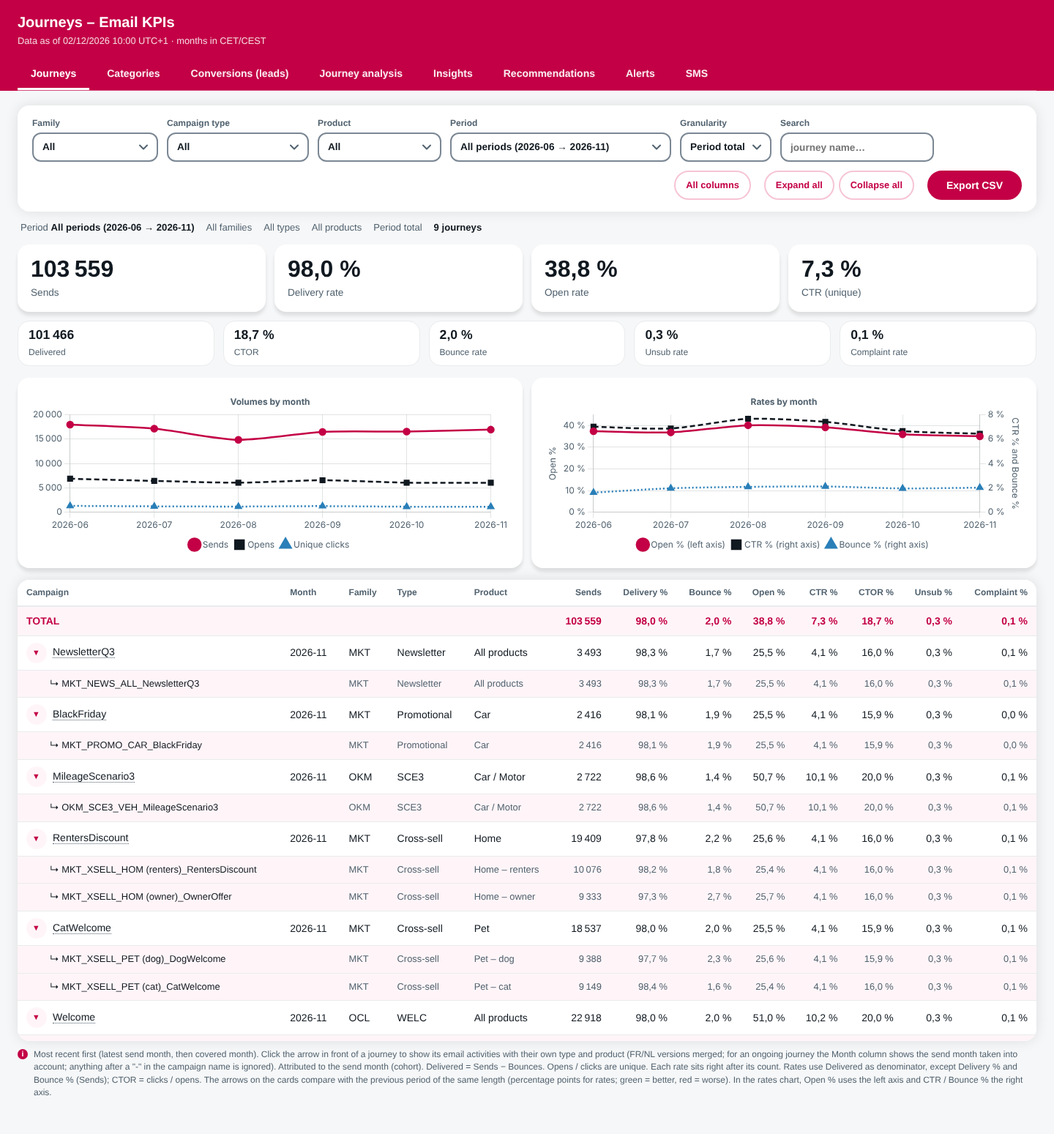
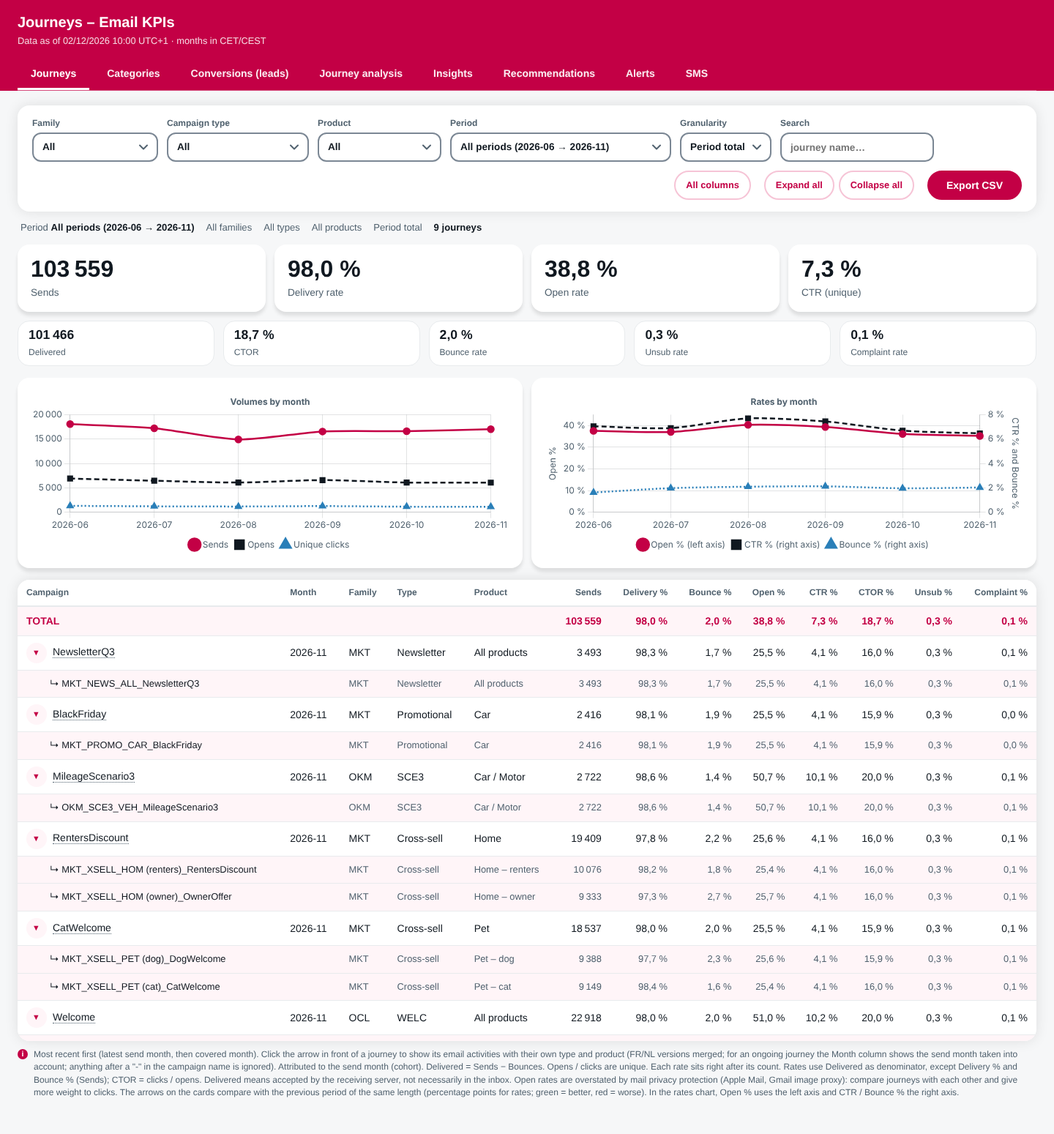
Deliverability aligned with provider guidance: two-level complaint thresholds, hard bounce split, compliance box, cautious open-rate rules
Claude-Session: https://claude.ai/code/session_01WtzjzeTDomDiWbenzCQNQG

diff --git a/html/cloudpage_dashboard.html b/html/cloudpage_dashboard.html
@@ -394,6 +394,9 @@ a.jl:focus-visible{outline:2px solid var(--focus);outline-offset:2px;border-radi
   <section id="v-ins" hidden>
     <div id="ins-deliv">
       <div class="tops" id="tops"></div>
+      <div class="h2" id="compTitle">Deliverability: your figures against the providers' references</div>
+      <div class="wrap"><table id="tComp"></table></div>
+      <details class="recomore" open><summary>What Google, Yahoo and Microsoft require</summary><div class="note" id="compText"></div></details>
       <div class="note" id="iNote"></div>
     </div>
     <div id="ins-aud" hidden>
@@ -567,9 +570,9 @@ function group(rows, keyFn){
   for (const r of rows){
     const [name,month,act] = keyFn(r), key = name+'|'+(act||'')+'|'+month;
     let a = m.get(key);
-    if(!a){ a={name,month,act:act||'',last:'',Sends:0,Bounces:0,Opens:0,Clicks:0,Unsubs:0,Compl:0}; m.set(key,a); }
+    if(!a){ a={name,month,act:act||'',last:'',Sends:0,Bounces:0,Hard:0,Opens:0,Clicks:0,Unsubs:0,Compl:0}; m.set(key,a); }
     if (r.Month > a.last) a.last = r.Month;
-    a.Sends+=r.Sends; a.Bounces+=r.Bounces; a.Opens+=r.Opens; a.Clicks+=r.UniqueClicks; a.Unsubs+=r.Unsubscribes; a.Compl+=r.Complaints;
+    a.Sends+=r.Sends; a.Bounces+=r.Bounces; a.Hard+=(r.HardBounces||0); a.Opens+=r.Opens; a.Clicks+=r.UniqueClicks; a.Unsubs+=r.Unsubscribes; a.Compl+=r.Complaints;
   }
   return [...m.values()];
 }
@@ -764,7 +767,7 @@ function viewKpi(dim){
   renderTable('tbl', keyCols, kpiCols(), grouped, tot, opts);
   drawCharts(byMonthCharts(rows));
   $('note').textContent = (S.tab==='journeys' ? "Most recent first (latest send month, then covered month). Click the arrow in front of a journey to show its email activities with their own type and product (FR/NL versions merged; for an ongoing journey the Month column shows the send month taken into account; anything after a \"-\" in the campaign name is ignored). " : "") +
-    "Attributed to the send month (cohort). Delivered = Sends − Bounces. Opens / clicks are unique. Each rate sits right after its count. Rates use Delivered as denominator, except Delivery % and Bounce % (Sends); CTOR = clicks / opens. The arrows on the cards compare with the previous period of the same length (percentage points for rates; green = better, red = worse). In the rates chart, Open % uses the left axis and CTR / Bounce % the right axis." +
+    "Attributed to the send month (cohort). Delivered = Sends − Bounces. Opens / clicks are unique. Each rate sits right after its count. Rates use Delivered as denominator, except Delivery % and Bounce % (Sends); CTOR = clicks / opens. Delivered means accepted by the receiving server, not necessarily in the inbox. Open rates are overstated by mail privacy protection (Apple Mail, Gmail image proxy): compare journeys with each other and give more weight to clicks. The arrows on the cards compare with the previous period of the same length (percentage points for rates; green = better, red = worse). In the rates chart, Open % uses the left axis and CTR / Bounce % the right axis." +
     (S.tab==='journeys' && !D.email.length ? " Email-level data not available yet (DASH_Email_KPI_Monthly)." : "");
 }
 
@@ -858,33 +861,43 @@ function recoRules(){
   const elig = J.filter(a=>deliv(a)>=minS), keyOf = a => { const p = parse(a.name); return p.fam+'_'+p.type; };
   const bench = (a, fn) => { let peers = elig.filter(x=>x.name!==a.name && keyOf(x)===keyOf(a)); if (peers.length<3) peers = elig.filter(x=>x.name!==a.name && parse(x.name).fam===parse(a.name).fam); return peers.length<3 ? null : {v:medianOf(peers.map(fn)), n:peers.length, key:keyOf(a)}; };
   const goJ = a => ({tab:'ana', j:a.name}), nm = a => parse(a.name).campaign;
-  /* ---- Deliverability ---- */
+  /* ---- Deliverability (references: Google and Yahoo ask for a complaint rate under 0,1 % and never 0,3 %; no provider publishes a bounce threshold, the usual benchmark is under 2 % in total and well under 1 % for hard bounces) ---- */
+  const hasHard = rows.some(r=>r.HardBounces!==undefined), hr = a => a.Sends ? a.Hard/a.Sends : 0, cpr = a => deliv(a) ? a.Compl/deliv(a) : 0;
+  const REF_COMPL = 'Google asks for a spam rate under 0,1 % and never 0,3 %; Yahoo 0,3 %.';
   run('Journey bounce rate','Deliverability',()=>{
     if (!elig.length) return 'no journey with at least '+n(minS)+' delivered emails in the period';
-    for (const a of elig){ const b = bench(a,br), r = br(a);
-      if (r>=0.05) F('high','Deliverability',nm(a)+': '+pct(a.Bounces,a.Sends)+' of emails bounce',n(a.Bounces)+' of '+n(a.Sends)+' sends bounced.','Clean the list before the next send: remove hard bounces and old addresses, and check where these addresses come from.',goJ(a),a.Sends);
-      else if (b && r>=Math.max(2*b.v, b.v+0.01) && r>=0.02) F('medium','Deliverability',nm(a)+': bounce rate '+pct(a.Bounces,a.Sends),n(a.Bounces)+' bounces on '+n(a.Sends)+' sends, against a median of '+fx1(b.v*100)+' % for '+b.n+' similar journeys ('+b.key+').','Check the quality of the addresses this journey sends to (source, age, hard bounces).',goJ(a),a.Sends); }
+    for (const a of elig){ const b = bench(a,br), r = br(a), h = hr(a), hardTxt = hasHard ? ' ('+fx1(h*100)+' % hard bounces)' : '';
+      if (hasHard && h>=0.01) F(h>=0.02?'high':'medium','Deliverability',nm(a)+': '+fx1(h*100)+' % hard bounces',n(a.Hard)+' hard bounces on '+n(a.Sends)+' sends. Hard bounces are the ones that hurt the sender reputation: the usual target is well under 1 %.','Remove the addresses that hard bounced and check where these addresses come from (old contacts, typos, purchased lists).',goJ(a),a.Sends);
+      else if (!hasHard && r>=0.05) F('high','Deliverability',nm(a)+': '+pct(a.Bounces,a.Sends)+' of emails bounce',n(a.Bounces)+' of '+n(a.Sends)+' sends bounced (hard and soft bounces are not separated yet: see the README).','Clean the list before the next send: remove hard bounces and old addresses, and check where these addresses come from.',goJ(a),a.Sends);
+      else if (b && r>=Math.max(2*b.v, b.v+0.01) && r>=0.02) F('medium','Deliverability',nm(a)+': bounce rate '+pct(a.Bounces,a.Sends),n(a.Bounces)+' bounces on '+n(a.Sends)+' sends'+hardTxt+', against a median of '+fx1(b.v*100)+' % for '+b.n+' similar journeys ('+b.key+').','Check the quality of the addresses this journey sends to and look for blocks (reputation) among the soft bounces.',goJ(a),a.Sends); }
+  });
+  run('Complaint rate by journey','Deliverability',()=>{
+    if (!elig.length) return 'no journey with at least '+n(minS)+' delivered emails in the period';
+    for (const a of elig){ const c = cpr(a); if (c>=0.001) F(c>=0.003?'high':'medium','Deliverability',nm(a)+': complaint rate '+fx1(c*100)+' %',n(a.Compl)+' complaints on '+n(deliv(a))+' delivered emails. '+REF_COMPL,'Review who receives this journey (consent, relevance, frequency) and make the unsubscribe link easy to find.',goJ(a),deliv(a)); }
   });
   run('Domains','Deliverability',()=>{
-    const dm = new Map(); for (const r of D.domain){ if (!inMonths(r.Month)) continue; let a = dm.get(r.Domain); if(!a){ a={name:r.Domain,Sends:0,Bounces:0,Compl:0}; dm.set(r.Domain,a); } a.Sends+=r.Sends; a.Bounces+=r.Bounces; a.Compl+=r.Complaints; }
+    const dm = new Map(); for (const r of D.domain){ if (!inMonths(r.Month)) continue; let a = dm.get(r.Domain); if(!a){ a={name:r.Domain,Sends:0,Bounces:0,Hard:0,Compl:0}; dm.set(r.Domain,a); } a.Sends+=r.Sends; a.Bounces+=r.Bounces; a.Hard+=(r.HardBounces||0); a.Compl+=r.Complaints; }
     const ds = [...dm.values()], tS = ds.reduce((s,a)=>s+a.Sends,0), tB = ds.reduce((s,a)=>s+a.Bounces,0); if (!ds.length || !tS) return 'no domain data (DASH_Domain_Monthly)';
-    const avg = tB/tS;
-    for (const a of ds){ if (a.Sends<minS) continue; const r = a.Bounces/a.Sends, c = a.Compl/a.Sends;
-      if (c>=0.001) F('high','Deliverability',a.name+': complaint rate '+fx1(c*100)+' %',n(a.Compl)+' complaints on '+n(a.Sends)+' sends (a rate above 0,1 % puts the sender reputation at risk).','Review who receives these emails (consent, frequency) and add a visible unsubscribe link.',{tab:'ins',sub:'deliv'},a.Sends);
-      if (r>=Math.max(2*avg,0.02)) F(r>=0.05?'high':'medium','Deliverability',a.name+': bounce rate '+fx1(r*100)+' %',n(a.Bounces)+' bounces on '+n(a.Sends)+' sends; all domains together: '+fx1(avg*100)+' %.','Check the addresses of this domain (typos, abandoned mailboxes) and the reputation of the sending domain with this provider.',{tab:'ins',sub:'deliv'},a.Sends); }
+    const avg = tB/tS, domHard = D.domain.some(r=>r.HardBounces!==undefined);
+    for (const a of ds){ if (a.Sends<minS) continue; const r = a.Bounces/a.Sends, h = a.Hard/a.Sends, dl = a.Sends-a.Bounces, c = dl ? a.Compl/dl : 0, gm = /^(gmail|googlemail)\./.test(a.name);
+      if (c>=0.001) F(c>=0.003?'high':'medium','Deliverability',a.name+': complaint rate '+fx1(c*100)+' %',n(a.Compl)+' complaints on '+n(dl)+' delivered emails. '+REF_COMPL,'Review who receives these emails (consent, frequency) and add a visible and one-click unsubscribe.',{tab:'ins',sub:'deliv'},a.Sends);
+      if (gm && a.Compl===0) F('info','Deliverability',a.name+': no complaint is visible, but Gmail does not report complaints to Marketing Cloud','0 complaints on '+n(dl)+' delivered emails. As far as we know Gmail does not send individual complaints back, so this number says nothing about your Gmail spam rate.','Check the spam rate in Google Postmaster Tools (target under 0,1 %, never 0,3 %) for the sending domain.',{tab:'ins',sub:'deliv'},a.Sends);
+      if (domHard && h>=0.01) F(h>=0.02?'high':'medium','Deliverability',a.name+': '+fx1(h*100)+' % hard bounces',n(a.Hard)+' hard bounces on '+n(a.Sends)+' sends.','Check the addresses of this domain (typos, abandoned mailboxes).',{tab:'ins',sub:'deliv'},a.Sends);
+      else if (r>=Math.max(2*avg,0.02)) F(!domHard && r>=0.05 ? 'high' : 'medium','Deliverability',a.name+': bounce rate '+fx1(r*100)+' %',n(a.Bounces)+' bounces on '+n(a.Sends)+' sends; all domains together: '+fx1(avg*100)+' %.','Check the addresses of this domain and whether the provider blocks you (reputation, authentication: SPF, DKIM, DMARC).',{tab:'ins',sub:'deliv'},a.Sends); }
   });
   run('Delivery trend','Deliverability',()=>{
     if (!prev.length) return 'no previous period of the same length to compare with';
     const c = group(rows, r=>['','']) [0], p = group(prev, r=>['','']) [0]; if (!c || !p || c.Sends<minS || p.Sends<minS) return 'not enough sends in one of the two periods';
     const dc = deliv(c)/c.Sends, dp = deliv(p)/p.Sends;
-    if (dp-dc>=0.01) F('medium','Deliverability','Delivery rate down '+fx1((dp-dc)*100)+' points',fx1(dc*100)+' % in the period against '+fx1(dp*100)+' % in the previous period ('+pr.from+' → '+pr.to+').','Look at the bounce rates by domain and by journey to find where the drop comes from.',{tab:'ins',sub:'deliv'},c.Sends);
+    if (dp-dc>=0.01) F('medium','Deliverability','Delivery rate down '+fx1((dp-dc)*100)+' points',fx1(dc*100)+' % in the period against '+fx1(dp*100)+' % in the previous period ('+pr.from+' → '+pr.to+'). A delivered email only means that the provider accepted it, not that it reached the inbox.','Look at the bounce rates by domain and by journey to find where the drop comes from.',{tab:'ins',sub:'deliv'},c.Sends);
   });
   /* ---- Performance ---- */
   run('Open and click rates against similar journeys','Performance',()=>{
     if (elig.length<4) return 'fewer than 4 journeys with at least '+n(minS)+' delivered emails: no reliable benchmark';
     for (const a of elig){ const bo = bench(a,orate), bc = bench(a,crate); if (!bo) continue;
       const g = bo.v-orate(a);
-      if (g>=gap) F(g>=2*gap?'high':'medium','Performance',nm(a)+': open rate '+fx1(g*100)+' points below similar journeys',pct(a.Opens,deliv(a))+' open rate on '+n(deliv(a))+' delivered emails, against a median of '+fx1(bo.v*100)+' % for '+bo.n+' similar journeys ('+bo.key+').','Test another subject line, sender name or send time; look at the best journey of the same type for inspiration.',goJ(a),deliv(a));
+      const clickLow = !!bc && bc.v>0 && crate(a)<=0.8*bc.v;   /* opens are inflated by mail privacy protection: only call it urgent when the clicks confirm it */
+      if (g>=gap) F(g>=2*gap && clickLow ? 'high' : 'medium','Performance',nm(a)+': open rate '+fx1(g*100)+' points below similar journeys',pct(a.Opens,deliv(a))+' open rate on '+n(deliv(a))+' delivered emails, against a median of '+fx1(bo.v*100)+' % for '+bo.n+' similar journeys ('+bo.key+')'+(bc ? '; click rate '+fx1(crate(a)*100)+' % against '+fx1(bc.v*100)+' %' : '')+'.','Test another subject line, sender name or send time; check the click rate before drawing conclusions, because opens are overstated by mail privacy protection (Apple Mail, Gmail image proxy).',goJ(a),deliv(a));
       if (bc && bc.v>=0.01 && crate(a)<=0.6*bc.v) F('medium','Performance',nm(a)+': click rate '+fx1(crate(a)*100)+' % against '+fx1(bc.v*100)+' % for similar journeys',n(a.Clicks)+' unique clicks on '+n(deliv(a))+' delivered emails.','Review the call to action (position, wording, number of links) and the content of the email.',goJ(a),deliv(a)); }
   });
   run('Change since the previous period','Performance',()=>{
@@ -981,7 +994,7 @@ function viewReco(){
     : `<div class="card"><b>Nothing to report</b><span>${res.checked ? 'No rule is triggered for this period and category.' : 'Not enough data for the checks yet.'}</span></div>`;
   $('recoList').querySelectorAll('[data-go]').forEach(b=>b.onclick=()=>{ const g = JSON.parse(b.dataset.go); if (g.j!==undefined) S.j = g.j; if (g.sub) S.sub = g.sub; if (g.seg) S.seg = g.seg; if (g.gc) S.gc = g.gc; if (g.q!==undefined){ S.q = g.q; $('fQ').value = g.q; } selectTab(g.tab); window.scrollTo(0,0); });
   $('recoSkipped').hidden = !res.skipped.length; $('recoSkipList').innerHTML = res.skipped.map(s=>'<li>'+esc(s)+'</li>').join('');
-  $('recoMethod').innerHTML = 'Rules run on the data already in the dashboard, for the selected period. A rule only fires when the volume is high enough (at least '+n(RECO.minSends||1000)+' delivered emails, '+n(RECO.minLeads||30)+' leads) and compares a journey with the median of similar journeys (same family and type, at least 3 of them) or with the previous period of the same length. Gaps are measured in points (default '+(RECO.gapPt||5)+'). Thresholds: <code>reco_min_sends</code>, <code>reco_min_leads</code> and <code>reco_gap_pt</code> in the admin page (Settings). These are leads to investigate, not proofs: the attribution of leads is an approximation and six months of history do not show seasonality.';
+  $('recoMethod').innerHTML = 'Rules run on the data already in the dashboard, for the selected period. A rule only fires when the volume is high enough (at least '+n(RECO.minSends||1000)+' delivered emails, '+n(RECO.minLeads||30)+' leads) and compares a journey with the median of similar journeys (same family and type, at least 3 of them) or with the previous period of the same length. Gaps are measured in points (default '+(RECO.gapPt||5)+'). Deliverability references: complaint rate under 0,1 % and never 0,3 % (Google, Yahoo); bounces under 2 % in total and hard bounces well under 1 % (industry benchmark, no provider threshold). Open rates are overstated by mail privacy protection, so an open-rate gap is only urgent when the click rate confirms it. Thresholds: <code>reco_min_sends</code>, <code>reco_min_leads</code> and <code>reco_gap_pt</code> in the admin page (Settings). These are leads to investigate, not proofs: the attribution of leads is an approximation and six months of history do not show seasonality.';
 }
 const RECO_CATS_OK = c => ['Deliverability','Performance','Leads','Audience'].includes(c);
 
@@ -1151,9 +1164,29 @@ function topList(title, items, fmtVal){
   const max = Math.max(1, ...items.map(i=>i.val));
   return `<div class="top"><h3>${esc(title)}</h3>${items.length?'<ol>'+items.map((i,x)=>`<li><span class="rk">${x+1}</span><span class="nm" title="${esc(i.title||i.name)}">${esc(i.name)}${i.sub?`<small>${esc(i.sub)}</small>`:''}</span><span class="vl">${fmtVal(i.val)}${i.extra?`<small>${esc(i.extra)}</small>`:''}</span><span class="bar2"><i style="width:${Math.round(i.val/max*100)}%"></i></span></li>`).join('')+'</ol>':'<div class="msg">No data</div>'}</div>`;
 }
+function renderCompliance(rows){
+  const t = group(rows, r=>['','']) [0], hasHard = rows.some(r=>r.HardBounces!==undefined);
+  const st = (v, watch, fix) => v>=fix ? 'Fix' : v>=watch ? 'Watch' : 'OK';
+  const line = (name, v, ref, status, note) => `<tr><td class="l">${esc(name)}</td><td>${v==null?'–':fx1(v*100)+' %'}</td><td class="l">${esc(ref)}</td><td class="l"><b>${status}</b>${note?' <span class="d">'+esc(note)+'</span>':''}</td></tr>`;
+  let h = '';
+  if (t && t.Sends){
+    const c = deliv(t) ? t.Compl/deliv(t) : 0, b = t.Bounces/t.Sends;
+    h += line('Complaint rate (feedback loops)', c, 'Google: under 0,1 %, never 0,3 %. Yahoo: under 0,3 %.', st(c,0.001,0.003), 'Gmail does not report complaints to Marketing Cloud: see Google Postmaster Tools');
+    h += hasHard ? line('Hard bounce rate', t.Hard/t.Sends, 'Industry: well under 1 % (no provider threshold)', st(t.Hard/t.Sends,0.01,0.02), '') : line('Hard bounce rate', null, 'Industry: well under 1 %', 'Not available', 'add the HardBounces field (see the README)');
+    h += line('Total bounce rate', b, 'Industry: under 2 % (no provider threshold)', st(b,0.02,0.05), '');
+    h += line('Unsubscribe rate', deliv(t) ? t.Unsubs/deliv(t) : null, 'No official threshold; opt-outs must be honoured quickly (Yahoo: 2 days)', 'Info', '');
+  }
+  $('tComp').innerHTML = '<thead><tr><th scope="col" class="l">Indicator</th><th scope="col">Period</th><th scope="col" class="l">Reference</th><th scope="col" class="l">Status</th></tr></thead><tbody>'+(h || '<tr><td colspan="4" class="l msg">No data for the period.</td></tr>')+'</tbody>';
+  $('compText').innerHTML = '<p>Rules for senders of more than 5 000 emails a day to Gmail or Outlook.com (you are in that case):</p><ul>'+
+    '<li><b>Authentication</b>: SPF, DKIM and DMARC. Microsoft requires at least a DMARC policy <code>p=none</code> that aligns with SPF or DKIM (recommended <code>p=reject</code>); otherwise mail goes to junk and may be rejected. Not measurable here: check the Sender Authentication Package and your DNS.</li>'+
+    '<li><b>One-click unsubscribe</b> for marketing mail (<code>List-Unsubscribe</code> and <code>List-Unsubscribe-Post</code> headers, RFC 8058), processed within 2 days (Yahoo).</li>'+
+    '<li><b>Complaints</b>: Google asks for a spam rate under 0,1 % and never 0,3 % or more; Yahoo stays under 0,3 %. Watch them in <a href="https://postmaster.google.com" target="_blank" rel="noopener noreferrer">Google Postmaster Tools</a>, Microsoft <a href="https://sendersupport.olc.protection.outlook.com/snds/" target="_blank" rel="noopener noreferrer">SNDS</a> and the Yahoo <a href="https://senders.yahooinc.com" target="_blank" rel="noopener noreferrer">Sender Hub</a> complaint feedback loop.</li></ul>'+
+    '<p>Limits of the figures above: <i>Delivered</i> means that the provider accepted the email, not that it reached the inbox; complaints only come from the providers that send feedback loops; open rates are overstated by mail privacy protection, so rely on clicks when comparing journeys. Sources: <a href="https://support.google.com/mail/answer/14229414" target="_blank" rel="noopener noreferrer">Google</a>, <a href="https://senders.yahooinc.com/best-practices" target="_blank" rel="noopener noreferrer">Yahoo</a>, <a href="https://techcommunity.microsoft.com/blog/outlook/strengthening-email-security-outlook-new-requirements-for-high-volume-senders/4399730" target="_blank" rel="noopener noreferrer">Microsoft</a>.</p>';
+}
 function viewInsDeliv(){
   const dm = new Map();
   for (const r of D.domain){ if(!inMonths(r.Month)) continue; let a=dm.get(r.Domain); if(!a){a={name:r.Domain,Sends:0,Bounces:0,Complaints:0};dm.set(r.Domain,a);} a.Sends+=r.Sends;a.Bounces+=r.Bounces;a.Complaints+=r.Complaints; }
+  const rows0 = D.kpi.filter(r=>inScope(r.JourneyName,r.Month));
   const doms = [...dm.values()], domSends = doms.reduce((s,a)=>s+a.Sends,0);
   const top = (arr,key,extra) => arr.filter(a=>a[key]>0).sort((a,b)=>b[key]-a[key]).slice(0,5).map(a=>({name:a.name,val:a[key],extra:extra?extra(a):''}));
   const jr = group(D.kpi.filter(r=>inScope(r.JourneyName,r.Month)), r=>[r.JourneyName,'']);
@@ -1163,6 +1196,7 @@ function viewInsDeliv(){
     topList('Top 5 domains – bounces', top(doms,'Bounces',a=>pct(a.Bounces,a.Sends)+' of sends'), n) +
     topList('Top 5 domains – complaints', top(doms,'Complaints',a=>pct(a.Complaints,a.Sends)+' of sends'), n) +
     topList('Top 5 journeys – bounces', topJ, n);
+  renderCompliance(rows0);
   $('iNote').textContent = "Domains: all MKT_/Oxx_ journeys, filtered by the selected months only (domains with at least 20 sends in a month). The journeys ranking also follows the Family / Type / Product filters." + (D.domain.length?'':' Domain data not available yet (DASH_Domain_Monthly).');
 }
 

diff --git a/html/cloudpage_api.html b/html/cloudpage_api.html
@@ -214,9 +214,11 @@ try {
     var sms = optional("DASH_SMS_Monthly", ["JourneyName","Month","AssetName","Sent","Messages","UniqueRecipients","Delivered","Bounced"], ["Sent","Messages","UniqueRecipients","Delivered","Bounced"], "DASH_SMS_Monthly");
     Write(Stringify({ part: "sms", sms: sms, warnings: warnings }));
   } else {
-    var kpi = fetchAll("DASH_Journey_KPI_Monthly",
-      ["JourneyName","Month","Category","Sends","Bounces","Opens","UniqueClicks","Unsubscribes","Complaints"]);
-    numFields(kpi, ["Sends","Bounces","Opens","UniqueClicks","Unsubscribes","Complaints"]);
+    var kpiBase = ["JourneyName","Month","Category","Sends","Bounces","Opens","UniqueClicks","Unsubscribes","Complaints"], kpiNums = ["Sends","Bounces","Opens","UniqueClicks","Unsubscribes","Complaints"];
+    var kpi = [], kpiHard = true;
+    try { kpi = fetchAll("DASH_Journey_KPI_Monthly", kpiBase.concat(["HardBounces"])); } catch (eKpi) { kpi = []; }
+    if (!kpi.length) { kpiHard = false; kpi = fetchAll("DASH_Journey_KPI_Monthly", kpiBase); }   /* DE created before the hard / soft bounce split: the HardBounces field does not exist yet */
+    numFields(kpi, kpiHard ? kpiNums.concat(["HardBounces"]) : kpiNums);
     var convBase = ["LeadId","JourneyName","Category","SendMonth","SendDate","LeadCreatedDate","LeadStatus","IsConverted","DaysToLead","Opened","Clicked","Product","LeadProduct","EmailName"];
     var conv = [];
     try { conv = numFields(fetchAll("DASH_Conversions", convBase.concat(["OriginKind","ConvJourney","ConvEmailName","ConvSendMonth"])), ["IsConverted","DaysToLead","Opened","Clicked"]); } catch (eConv) { conv = []; }
@@ -226,7 +228,10 @@ try {
     var email = optional("DASH_Email_KPI_Monthly",
       ["JourneyName","Month","EmailName","Sends","Bounces","Opens","UniqueClicks","Unsubscribes","Complaints"],
       ["Sends","Bounces","Opens","UniqueClicks","Unsubscribes","Complaints"], "DASH_Email_KPI_Monthly");
-    var domain = optional("DASH_Domain_Monthly", ["Domain","Month","Sends","Bounces","Complaints"], ["Sends","Bounces","Complaints"], "DASH_Domain_Monthly");
+    var domBase = ["Domain","Month","Sends","Bounces","Complaints"], domain = [], domHard = true;
+    try { domain = fetchAll("DASH_Domain_Monthly", domBase.concat(["HardBounces"])); } catch (eDom) { domain = []; }
+    if (!domain.length) { domHard = false; domain = optional("DASH_Domain_Monthly", domBase, ["Sends","Bounces","Complaints"], "DASH_Domain_Monthly"); }
+    else { numFields(domain, ["Sends","Bounces","Complaints","HardBounces"]); }
     Write(Stringify({ generatedMs: new Date().getTime(), kpi: kpi, conv: conv, email: email, domain: domain, warnings: warnings }));
   }
 } catch (e) {

diff --git a/README.md b/README.md
@@ -30,7 +30,8 @@ Les demandes ci-dessous (faites à partir de 16 h le 27/11/2026) sont **impléme
 3. **Vérifier que `Lead_Salesforce_1` contient le champ `LastModifiedDate`** (utilisé comme date de signature approchée).
 4. **Relancer `sql/04_backfill_conversions.sql`** (Run Once, mois par mois si le délai de 30 minutes est dépassé), puis laisser tourner `sql/02_conversions.sql` dans l'automation quotidienne.
 5. **Listes de publication** (nouvelle vue *Insights › Publication lists*) : créer `DASH_PubList_Snapshot` (**AsOf** Text(7), **ListName** Text(200), **Status** Text(20), **Contract** Text(3) en clé primaire ; Subscribers Number) et `DASH_PubList_Monthly` (**ListName** Text(200), **Month** Text(7) en clé primaire ; Joined, Unsubscribed Number). Lancer `sql/26_probe_lists.sql` (cible `DASH_Debug`) pour voir les listes et leur type, puis `sql/25_backfill_publist_monthly.sql` (une fois) et `sql/23_publist_snapshot.sql` / `sql/24_publist_monthly.sql` (quotidiennes, mode Update). Ajouter les deux requêtes à l'automation.
-6. Facultatif, pour contrôler l'attribution : `sql/20_audit_months.sql`, puis `sql/19_audit_lead_attribution.sql` (un mois à la fois), `21` et `22` (DE cibles décrites dans `sql/NOTES.md`).
+6. **Hard bounces** : ajouter le champ `HardBounces` (Number) à `DASH_Journey_KPI_Monthly` et à `DASH_Domain_Monthly`, lancer `sql/12_probes.sql` (sonde P10) pour vérifier les valeurs de `BounceCategory` dans `_Bounce` (les requêtes comptent les catégories qui commencent par « Hard »), puis relancer **une fois** `sql/03_backfill_kpi.sql` et `sql/11_backfill_domain.sql` (mode Update). Sans ce champ, le dashboard fonctionne comme avant et le signale.
+7. Facultatif, pour contrôler l'attribution : `sql/20_audit_months.sql`, puis `sql/19_audit_lead_attribution.sql` (un mois à la fois), `21` et `22` (DE cibles décrites dans `sql/NOTES.md`).
 
 ### Étape C : ce qui a changé et ce qu'il faut tester
 | # | Modification | À tester dans Marketing Cloud |
@@ -49,6 +50,7 @@ Les demandes ci-dessous (faites à partir de 16 h le 27/11/2026) sont **impléme
 | 12 | **Journey analysis : comparaison de deux journeys** (liste « Compare with »). Tableau de 9 indicateurs côte à côte avec la différence, graphique d'engagement, détail de la journey A en dessous ; la comparaison est dans l'adresse (`j2=`). | Comparer deux journeys (ex. Newsletter Q2 et Q3) sur une période ; vérifier les totaux avec l'onglet Journeys. |
 | 13 | **Insights › Publication lists** : abonnés par liste (actifs, désinscrits, bounced / held), avec ou sans contrat, inscriptions et désinscriptions de la période, croissance nette par mois. Nouvelles DE et requêtes 23 à 26 (étape B, point 5). | Voir la section « À fournir lundi » ci-dessous. |
 | 14 | **Recommandations** : nouvel onglet *Recommendations* (entre Insights et Alerts). 13 contrôles calculés sur les données déjà chargées : bounce par journey et par domaine, plaintes, baisse du taux de livraison, ouverture et clic sous la médiane des journeys semblables, baisse par rapport à la période précédente, écart FR / NL, emails faibles dans une journey, leads qui ne signent pas, leads sans email, comparaison des origines, abonnés avec contrat non joints, fatigue selon la fréquence, listes qui perdent des abonnés, provinces sous-couvertes. Seuils réglables dans la page admin (*Settings* : `reco_min_sends`, `reco_min_leads`, `reco_gap_pt`). | Vérifier que les constats sont cohérents avec ce que vous connaissez des journeys, ajuster les seuils, regarder la liste « Checks not run » (données manquantes) et le détail via « See the data ». |
+| 15 | **Délivrabilité alignée sur Google, Yahoo et Microsoft** : plaintes à deux niveaux (« Watch » dès 0,1 %, « Fix » dès 0,3 %, repères de Google et Yahoo), bounces séparés en hard et soft (« Watch » dès 1 % de hard bounces, « Fix » dès 2 %), rappel que Gmail ne remonte pas ses plaintes (Postmaster Tools), tableau « chiffres contre références » et encadré des exigences (SPF / DKIM / DMARC, désinscription en un clic) dans *Insights › Deliverability*, ouvertures jugées avec prudence (protection de la vie privée) : un écart d'ouverture n'est « Fix » que si les clics le confirment. | Exécuter la sonde P10 ; vérifier que `HardBounces` se remplit ; comparer la ligne « Complaint rate » avec Google Postmaster Tools. |
 
 **Périodes proposées** : All periods, This month, Previous month, Last 2 months, Last 3 months, This quarter, Previous quarter, Last 6 months, This half-year, Previous half-year, Last 12 months, This year, Previous year. Chaque entrée affiche entre parenthèses les mois couverts.
 
@@ -69,11 +71,11 @@ Hypothèses à vérifier lors du premier essai : les colonnes `_List.ListType` e
 ### Data Extensions à créer
 | DE | Champs (PK en gras) |
 |---|---|
-| DASH_Journey_KPI_Monthly | **JourneyName** Text(200), **Month** Text(7), Category Text(3), Sends, Bounces, Opens, UniqueClicks, Unsubscribes, Complaints (Number) |
+| DASH_Journey_KPI_Monthly | **JourneyName** Text(200), **Month** Text(7), Category Text(3), Sends, Bounces, HardBounces, Opens, UniqueClicks, Unsubscribes, Complaints (Number) |
 | DASH_Conversions | **LeadId** Text(18) ; une ligne par lead : JourneyName Text(200) (journey d'origine ou « (no email) »), Category Text(50), SendMonth Text(7), SendDate Text(50), LeadCreatedDate Text(50), LeadStatus Text(100), Product Text(20), LeadProduct Text(20), EmailName Text(200), OriginKind Text(1), ConvJourney Text(200), ConvEmailName Text(200), ConvSendMonth Text(7), IsConverted, DaysToLead, Opened, Clicked (Number) |
 | DASH_Email_KPI_Monthly | **JourneyName** Text(200), **Month** Text(7), **EmailName** Text(200), Sends, Bounces, Opens, UniqueClicks, Unsubscribes, Complaints (Number) |
 | DASH_Link_Monthly | **JourneyName** Text(200), **Month** Text(7), **RowKey** Text(32) (clé primaire composée dans cet ordre, pour des lectures rapides), EmailName Text(200), LinkName Text(300), LinkContent Text(300), UniqueClicks, TotalClicks (Number) |
-| DASH_Domain_Monthly | **Domain** Text(100), **Month** Text(7), Sends, Bounces, Complaints (Number) |
+| DASH_Domain_Monthly | **Domain** Text(100), **Month** Text(7), Sends, Bounces, HardBounces, Complaints (Number) |
 | DASH_SMS_Monthly | **JourneyName** Text(200), **Month** Text(7), **AssetName** Text(200), Sent, Messages, UniqueRecipients, Delivered, Bounced (Number) |
 | DASH_Sub_Monthly | **SubscriberKey** Text(100), **Month** Text(7), RecMkt, RecOps, OpenMkt, ClickMkt (Number) : par abonné et par mois, journeys MKT_ / Oxx_ (s'accumule, jamais écrasée) |
 | DASH_Audience_Dist | **AsOf** Text(7), **Win** Text(2), **Contract** Text(3) (Yes/No), **RecBucket** Text(6), **Seg** Text(15), Subscribers, ReceivedMkt, ReceivedOps, OpensMkt, ClicksMkt, Months (Number) |
@@ -148,7 +150,7 @@ Une liste **Period** remplace les anciens *From / To*. Elle propose : toutes les
 - **Categories** : vue par préfixe, type de campagne ou produit.
 - **Conversions (leads)** : attribution « leads d'abord » (voir plus bas), même détail par activité email.
 - **Journey analysis** : une journey en détail (choisie avec la liste de recherche) : langues FR/NL, emails, KPI, liens groupés par email (chargés à la demande). Une seconde liste « Compare with » compare deux journeys (tableau côte à côte, différence, graphique d'engagement).
-- **Insights** : *Deliverability* (top 5 domaines et journeys), *Subscriber base* (3, 6 ou 12 mois précédents, avec ou sans contrat actif ou futur), *Publication lists* (abonnés, désinscrits, inscriptions et désinscriptions par liste), *Geography* (carte de Belgique par province ou code postal, contacts avec ou sans contrat).
+- **Insights** : *Deliverability* (top 5 domaines et journeys, chiffres comparés aux références de Google, Yahoo et Microsoft), *Subscriber base* (3, 6 ou 12 mois précédents, avec ou sans contrat actif ou futur), *Publication lists* (abonnés, désinscrits, inscriptions et désinscriptions par liste), *Geography* (carte de Belgique par province ou code postal, contacts avec ou sans contrat).
 - **Recommendations** : constats classés « Fix » (à corriger), « Watch » (à surveiller) et « Insight », par catégorie (Deliverability, Performance, Leads, Audience), chacun avec le chiffre à l'appui, une action suggérée et un lien vers les données. Une règle ne se déclenche que si le volume est suffisant ; ce sont des pistes à vérifier, pas des preuves (l'attribution des leads est une approximation et 6 mois d'historique ne montrent pas la saisonnalité).
 - **Alerts** : volume du mois en cours comparé au mois précédent au prorata des jours écoulés (seuils dans `DASH_Config`).
 - **SMS** : par journey et asset.

diff --git a/sql/NOTES.md b/sql/NOTES.md
@@ -113,3 +113,9 @@ Source : Data Views `_List` (nom et type), `_ListSubscribers` (statut et dates p
 - **27** modèle de contrôle d'écart entre une DE source et les membres actifs d'une liste ; remplacer `SOURCE_DE_NAME`, `LIST_NAME` et le champ clé `SubscriberKey`.
 - Hypothèses à confirmer au premier essai : colonnes `_List.ListType`, `_ListSubscribers.Status`, `DateJoined`, `DateUnsubscribed`, et valeurs de `ListType`.
 - Test : la logique des requêtes 23 et 25 a été vérifiée sur une base de test (DuckDB) contre un calcul indépendant ; elles n'ont pas encore tourné dans Marketing Cloud.
+
+## Délivrabilité : références des fournisseurs
+- Complaints : `_Complaint` n'est alimentée que par les boucles de retour des fournisseurs qui en envoient (Microsoft, Yahoo). À notre connaissance Gmail n'en envoie pas : le taux de spam de Gmail se lit dans Google Postmaster Tools. Repères : Google, taux de spam sous 0,1 % et jamais 0,3 % ; Yahoo, sous 0,3 %.
+- Bounces : aucun fournisseur ne publie de seuil ; repère de l'industrie, moins de 2 % au total et nettement moins de 1 % de hard bounces. `HardBounces` = nombre de lignes `_Bounce` dont `BounceCategory` commence par « Hard » (requêtes 01, 03, 10, 11) ; la sonde P10 de `12_probes.sql` liste les valeurs réelles.
+- « Delivered » = accepté par le serveur destinataire (envois moins bounces), pas forcément en boîte de réception.
+
